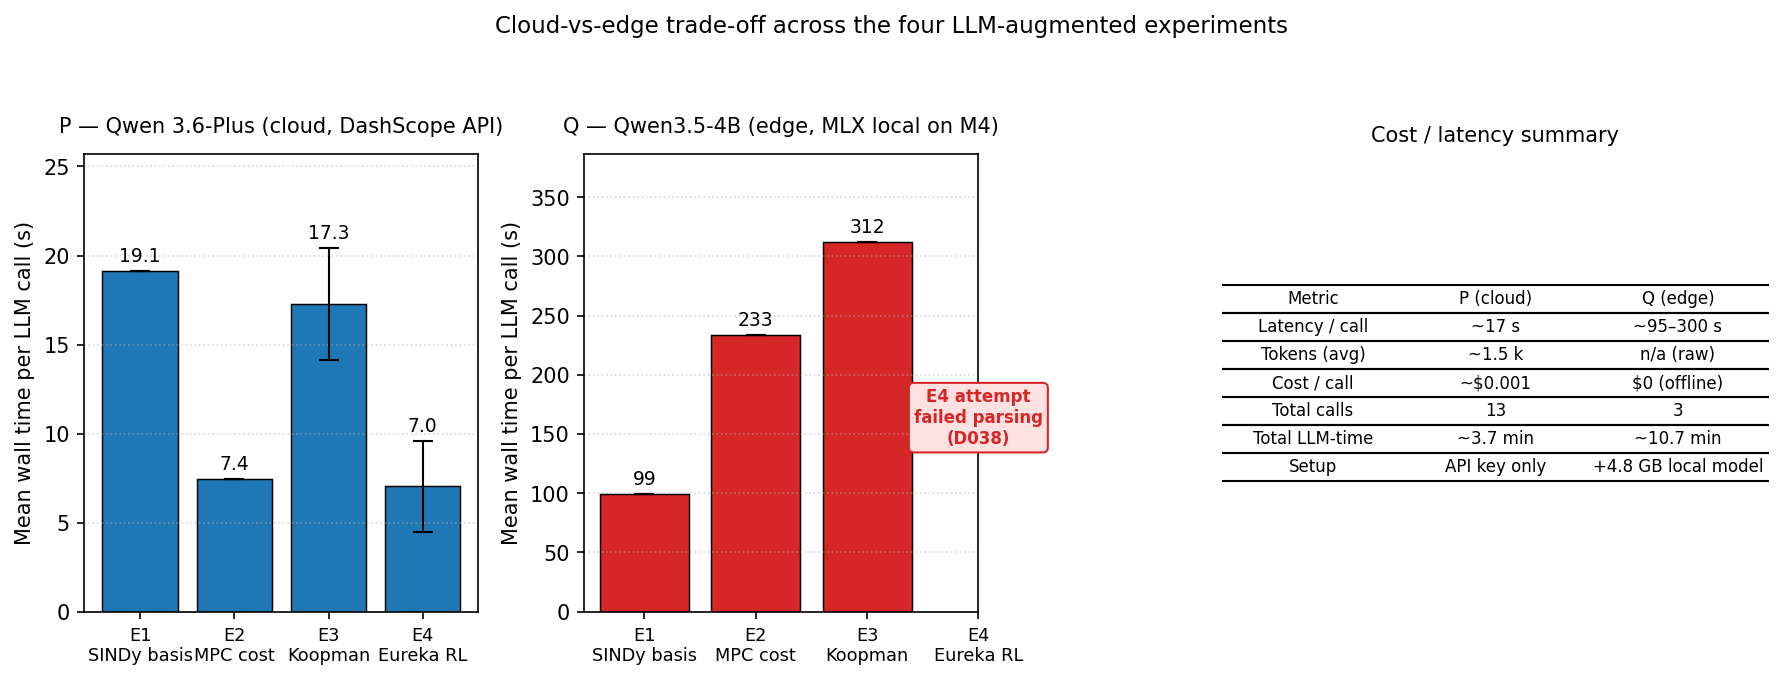
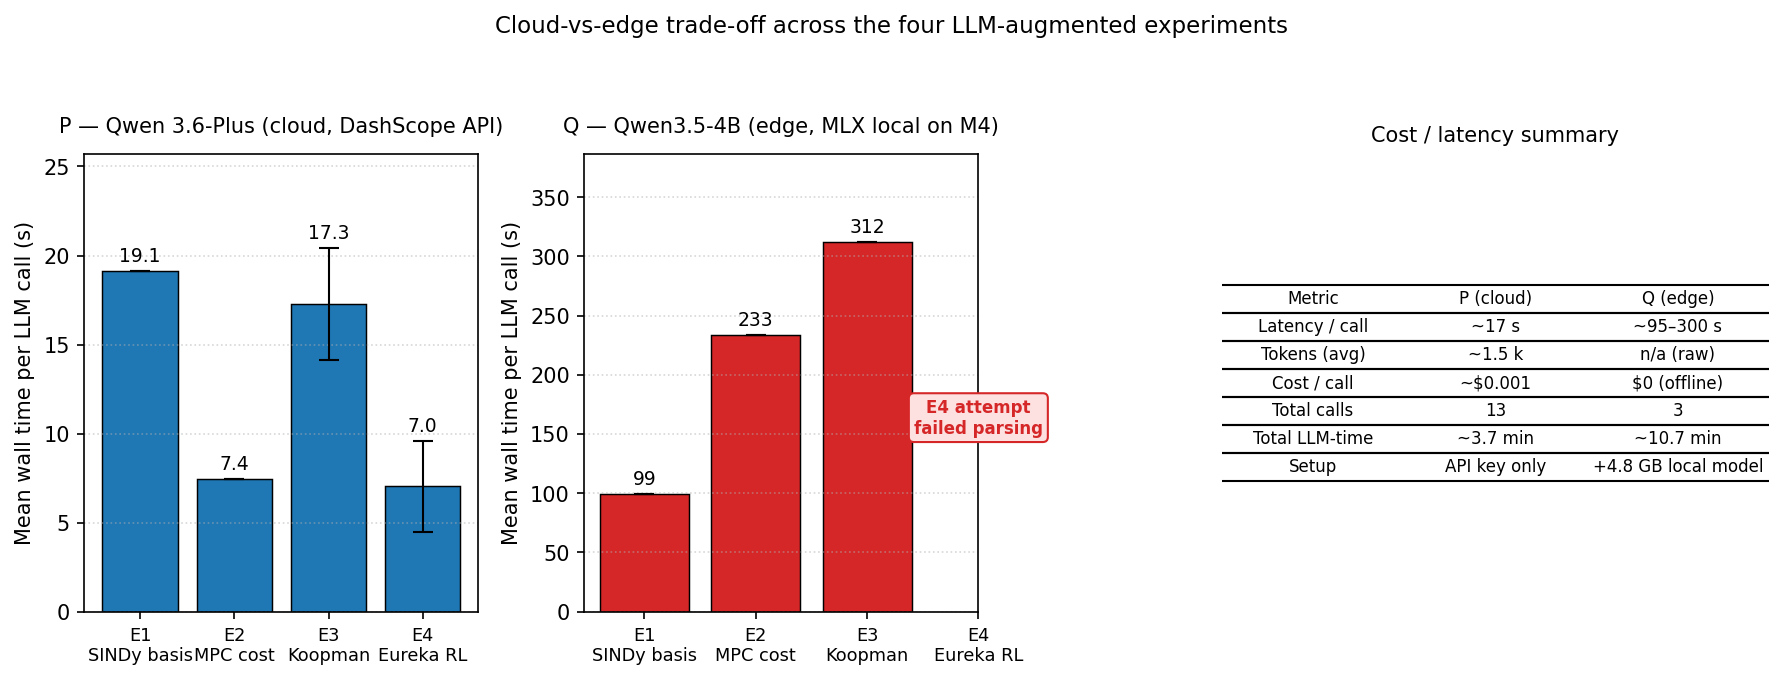
fix: correct I_yy constant in Koopman prompt; tidy figure annotations
- llm/prompts.py: the Koopman/EDMDc EOM appendix stated I_yy = 0.0125,
  contradicting the same prompt's system description (0.01) and the
  actual simulator value (quadrotor_dynamics.py, I_yy = 0.01). Corrected
  to 0.01 so the optional equations-of-motion block matches the dynamics.
  This appendix is only appended for the edge-LLM (Q) condition, which
  produced no usable Koopman code regardless, so no reported result
  changes; the fix is for internal consistency.
- scripts/figure_e3_multi_seed.py, scripts/figure_cost_latency.py: drop
  the internal decision-log tags ("(D036)", "(D038)") from the
  reader-facing figure annotations and title. Regenerated both PNGs.

Changed region(s): [[0.4933, 0.5559, 0.5858, 0.6794]]

diff --git a/scripts/figure_e3_multi_seed.py b/scripts/figure_e3_multi_seed.py
@@ -120,7 +120,7 @@ def main() -> None:
         # Q annotation at x=2 — placed mid-axis on log scale.
         ax.text(
             2, np.sqrt(p_arr.mean() * b_val),
-            "Q\n3 attempts\nno code fence\n(D036)",
+            "Q\n3 attempts\nno code fence",
             ha="center", va="center", fontsize=9, color="#d62728",
             fontweight="bold",
             bbox=dict(boxstyle="round,pad=0.4", fc="#fde0e0",
@@ -140,7 +140,7 @@ def main() -> None:
 
     fig.suptitle(
         "Experiment 3 — Koopman/EDMDc: P consistently outperforms B; "
-        "Q is fragile (D036)",
+        "Q is fragile",
         fontsize=11, y=0.99,
     )
     fig.tight_layout(rect=[0, 0, 1, 0.93])

diff --git a/scripts/figure_cost_latency.py b/scripts/figure_cost_latency.py
@@ -177,7 +177,7 @@ def main() -> None:
                       ha="center", va="bottom", fontsize=9)
     # Annotate the empty E4 bar so it isn't read as missing data.
     ax_q.text(
-        3, ymax_q * 0.5, "E4 attempt\nfailed parsing\n(D038)",
+        3, ymax_q * 0.5, "E4 attempt\nfailed parsing",
         ha="center", va="center", fontsize=8, color="#d62728",
         fontweight="bold",
         bbox=dict(boxstyle="round,pad=0.3", fc="#fde0e0",

diff --git a/src/me569_project/llm/prompts.py b/src/me569_project/llm/prompts.py
@@ -374,7 +374,7 @@ The continuous-time dynamics in numpy notation are
     omega_dot = (u_2 - u_1) * L / I_yy
 
 with constants ``m = 1.0`` kg, ``g = 9.81`` m/s^2, ``L = 0.25`` m,
-``I_yy = 0.0125`` kg*m^2. The discrete-time transitions seen by EDMDc
+``I_yy = 0.01`` kg*m^2. The discrete-time transitions seen by EDMDc
 are the result of an RK4 integrator with ``dt = 0.02`` applied to
 these dynamics.
 """
